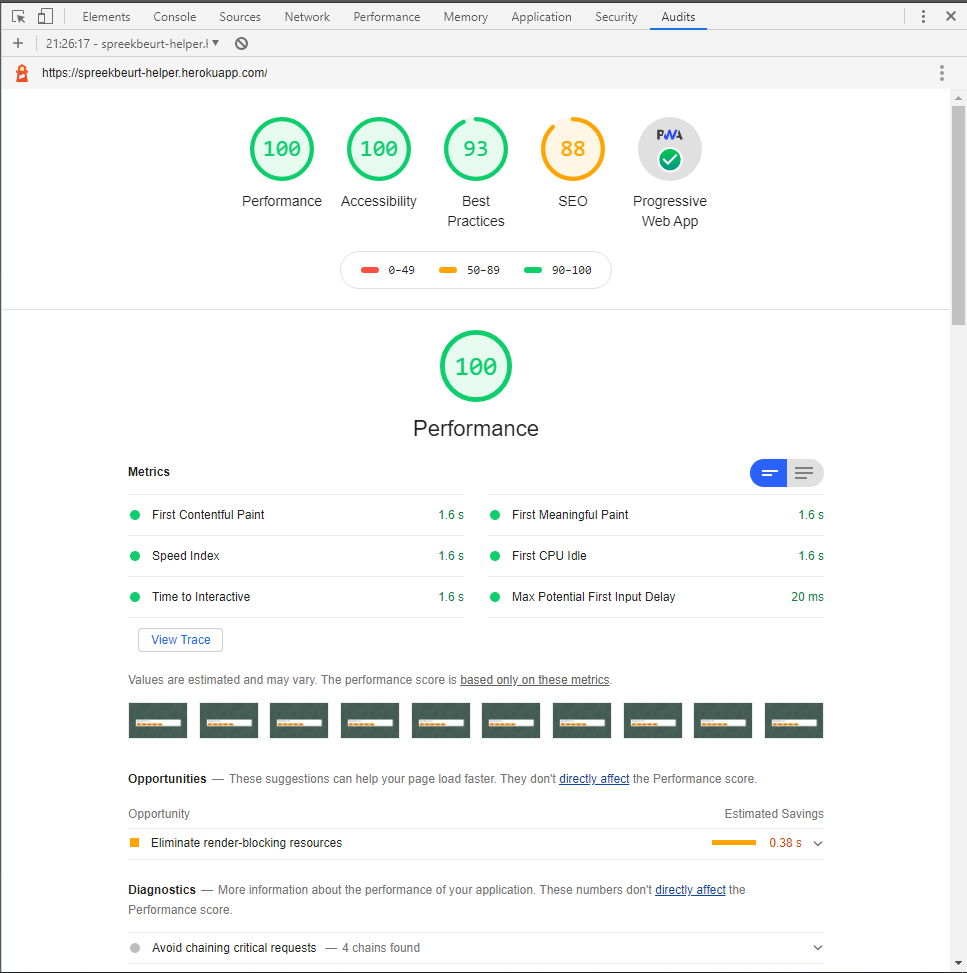
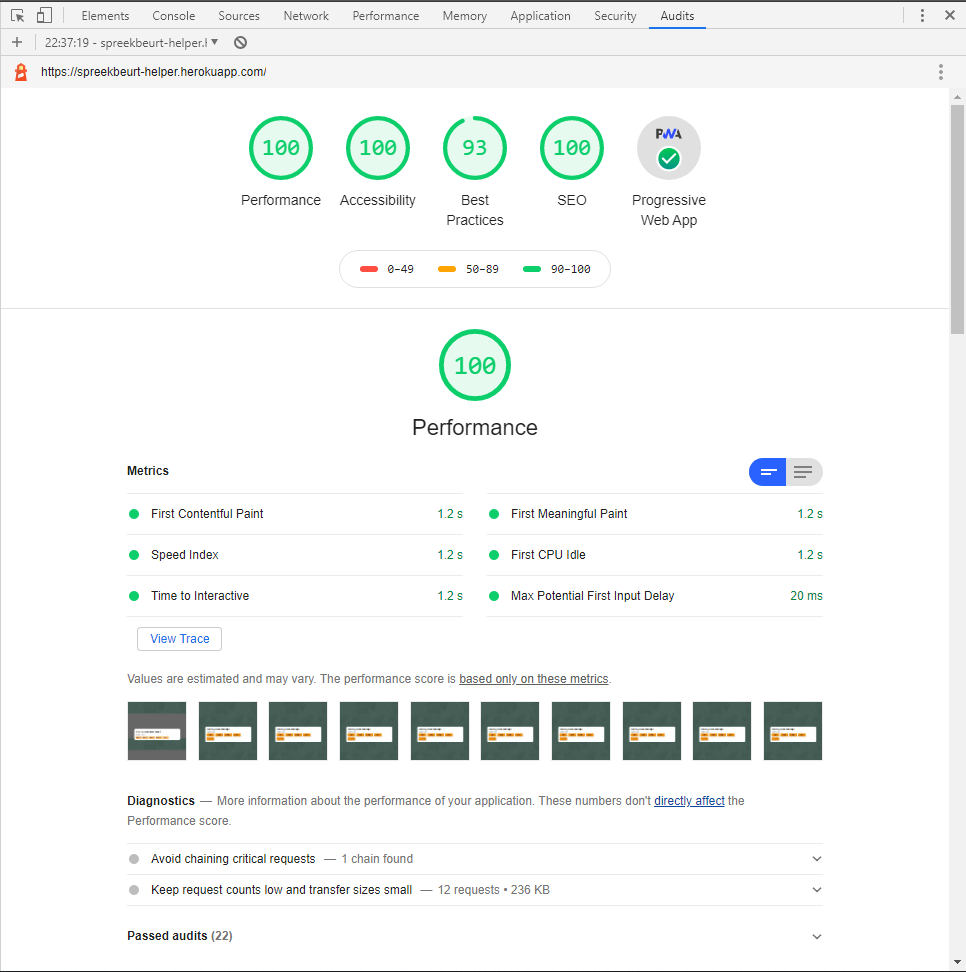
fix ssl + env

diff --git a/app.js b/app.js
@@ -1,3 +1,4 @@
+const http = require('http');
 const createError = require('http-errors');
 const express = require('express');
 const minifyHtml = require('express-minify-html');
@@ -9,12 +10,15 @@ const detailRouter = require("./routes/detail");
 const app = express();
 const port = process.env.PORT || 3000;
 
+// Enforce https when on Heroku
+if (app.get("env") === "production") {
+    app.use(enforce.HTTPS({ trustProtoHeader: true }));
+}
 
 // Setup express and view engine
 app.set("view engine", "ejs")
     .set("views", "views")
     .use(express.static('dist'))
-    .use(enforce.HTTPS({trustProtoHeader: true}))
     .use(minifyHtml({
         override: true,
         exception_url: false,
@@ -48,6 +52,8 @@ app.use(function (err, req, res, next) {
     res.render('error', {title: `Error ${err.status}`});
 });
 
-app.listen(port, () => console.log(` Server running on http://localhost:${port}`));
+http.createServer(app).listen(port, () =>{
+    console.log(`Server running on http://localhost:${port}`)
+});
 
 module.exports = app;

diff --git a/models/api/api.js b/models/api/api.js
@@ -1,3 +1,4 @@
+require('dotenv').config();
 const axios = require('axios');
 
 class Api {
@@ -11,7 +12,7 @@ class Api {
     async get(endpoint, params) {
         let cors = "https://yacdn.org/proxy/";
         let baseUrl = "https://zoeken.oba.nl/api/v1";
-        let authorization = "&authorization=ffbc1ededa6f23371bc40df1864843be";
+        let authorization = process.env.API_KEY;
         let output = "&output=json";
         try {
             return await axios.get(cors + baseUrl + endpoint + params + authorization + output);

diff --git a/README.md b/README.md
@@ -59,10 +59,14 @@ No Service Worker: ![no-service-worker](docs/after-minify.png "no-service-worker
 With Service Worker: ![with-service-worker](docs/with-service-worker.png "with-service-worker")
 
 ### Loading CSS Async
-This project had three css files which I combined into one file. The problem was that css files are render-blocking. To prevent this the css needs to be loaded asynchronously. 
+The problem was that css files are render-blocking. This project had three css files which I combined into one file.  To prevent this the css needs to be loaded asynchronously. I have used [this](https://www.filamentgroup.com/lab/load-css-simpler/) resource for the solution.
 
-### Audit Results
-The audit after the performance enhancement is a bit slower because it is deployed on a live environment instead of a local environment. Other than Search Engine Optimization all audit scores are higher after the performance enhancement.
+Lighthouse opportunity before async css: ![before-async-css](docs/render-blocking-css.png "before-async-css") 
+
+Now the opportunity doesn't show anymore and according to the audit the first meaningful paint is even 200ms faster.
+
+### Audit
+The Chrome Lighthouse audit after the performance enhancement is 200 ms faster on Heroku than before on the local version, which is pretty good. On the audit scores Best Practices and SEO there is a noticeable improvement and the audit even acknowledges that the project is a Progressive Web App. 
 
 Audit before Performance Enhancement: ![audit-before](docs/audit-before.png "audit-before") 
 
